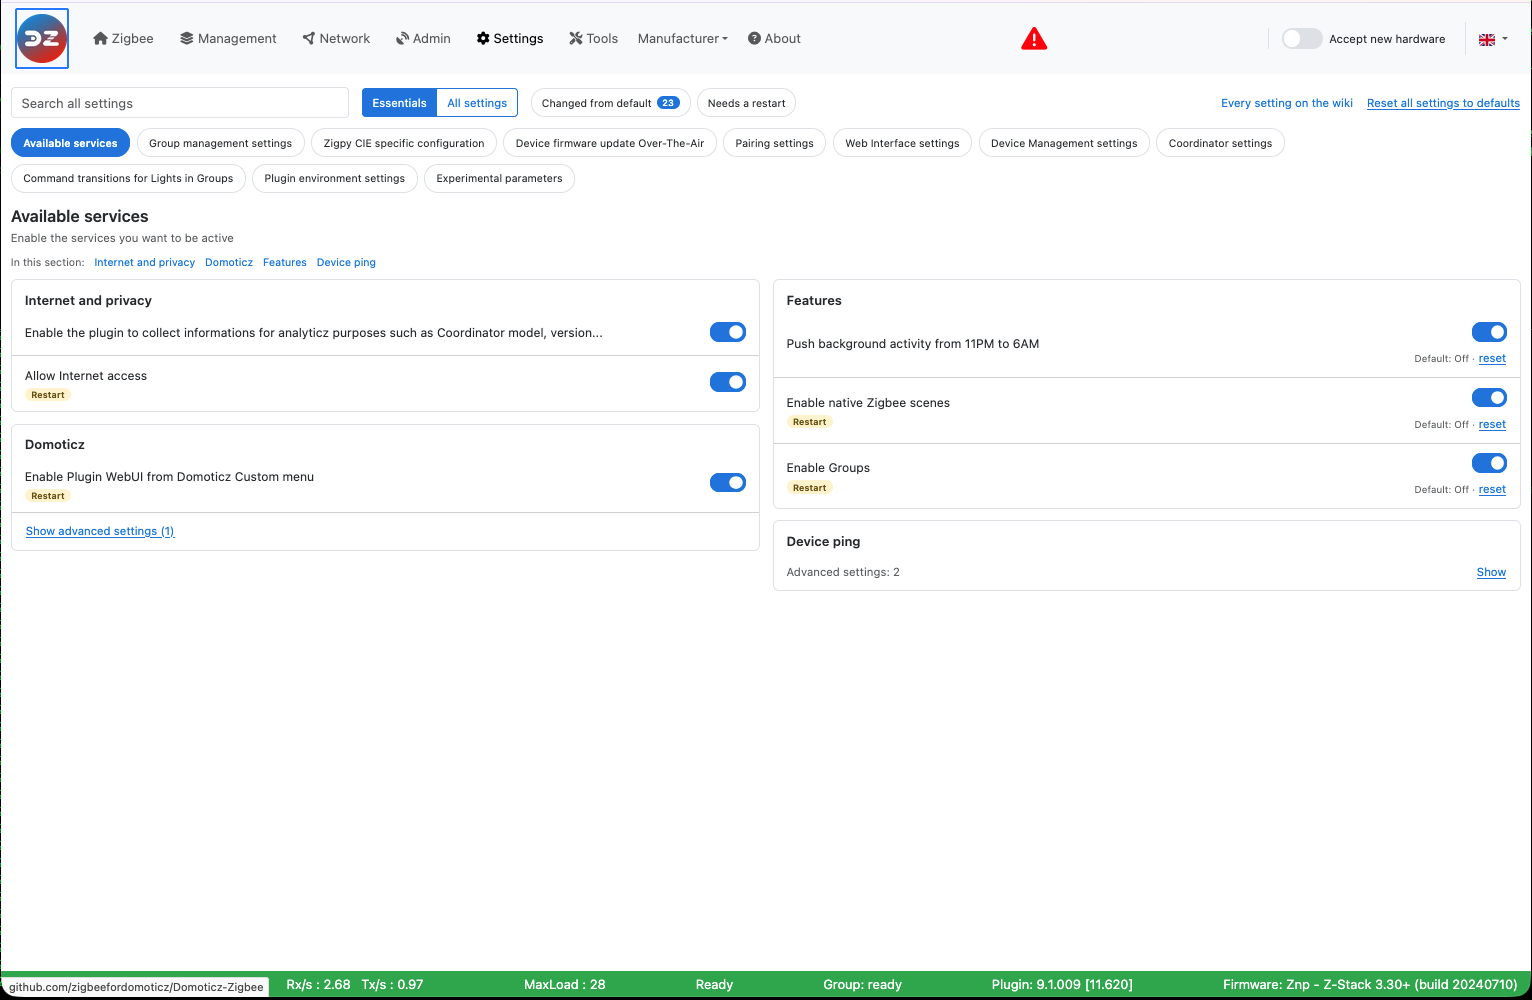
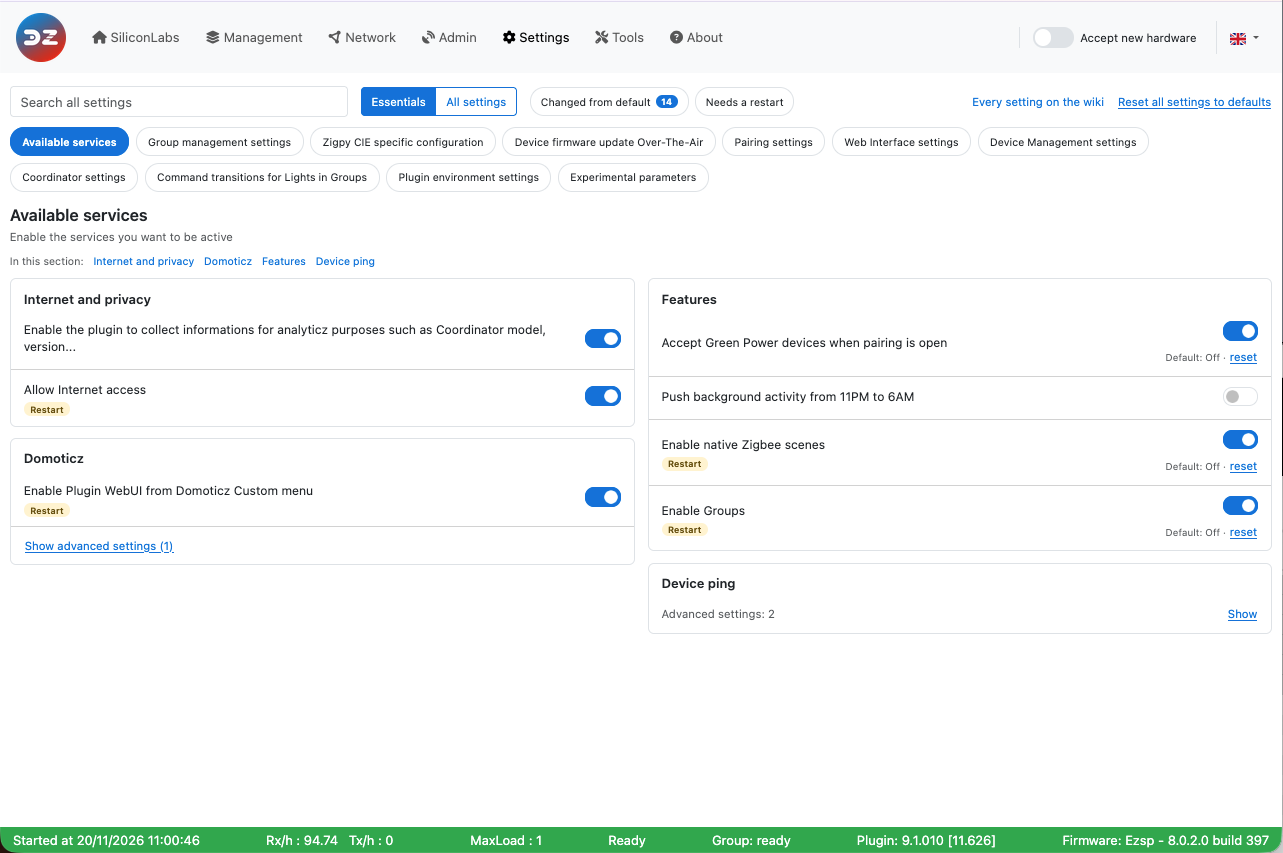
Settings: tables and screenshot of the released 9.1.010
Tables regenerated from origin/stable9 (9.1.010, 15d5d94a9) and
Domoticz-Zigbee-UI beta: GreenPowerEnable under Available services
(#2266), ControllerInRawMode no longer shown (#2265). The screenshot is
the 9.1.010 page on a Silicon Labs coordinator, with Green Power in the
Features card.

Claude-Session: https://claude.ai/code/session_017BKZpJtbN6oJB7RGDkBQzA

diff --git a/en-eng/WebUI_Settings.md b/en-eng/WebUI_Settings.md
@@ -44,6 +44,7 @@ Enable the services you want to be active
 | `MatomoOptIn` | Enable the plugin to collect informations for analyticz purposes such as Coordinator model, version... | on |  |  | See [Plugin statistics](WebUI_Statistics.md) for what is sent. |
 | `enablegroupmanagement` | Enable Groups | off |  | plugin restart | See [Group Management](HowTo_Group-management.md). |
 | `enableNativeScenes` | Enable native Zigbee scenes | off |  | plugin restart | Needs Group Management and a zigpy coordinator. |
+| `GreenPowerEnable` | Accept Green Power devices when pairing is open | off |  |  | Not offered on Texas Instruments (Z-Stack) coordinators, which cannot receive Green Power frames directly. |
 | `internetAccess` | Allow Internet access | on |  | plugin restart | Used to check for plugin and firmware updates, to update the certified devices database and for OTA firmware repositories. It doesn't control the [statistics](WebUI_Statistics.md). |
 | `DomoticzCustomMenu` | Enable Plugin WebUI from Domoticz Custom menu | on |  | plugin restart | See [Plugin integration](Plugin_Integration.md). |
 | `NightShift` | Push background activity from 11PM to 6AM | off |  |  |  |
@@ -112,7 +113,6 @@ Specific to some CIE as ConBeeII and RasBeeII it might required to enable some C
 | `EzspAllowUnsecuredRejoins` | Allow unsecured rejoins (EZSP) | off |  | plugin restart | Shown with Silicon Labs (EZSP) coordinators only. |
 | `BellowsNoMoreEndDeviceChildren` | Disable direct pairing on Coordinator | off |  | plugin restart | Shown with Silicon Labs (EZSP) coordinators only. End devices then pair through a router. |
 | `zigpySourceRouting` | Enable Zigbee Source routing (plugin) | off |  | plugin restart |  |
-| `GreenPowerEnable` | Accept Green Power devices when pairing is open | off |  |  | Not offered on Texas Instruments (Z-Stack) coordinators, which cannot receive Green Power frames directly. |
 
 ## Device firmware update Over-The-Air
 
@@ -269,7 +269,6 @@ Use it only if you have been asked to
 
 | Setting | Shown in the WebUI as | Default | Unit / values | Restart | Notes |
 | :------ | :-------------------- | :------ | :------------ | :------ | :---- |
-| `ControllerInRawMode` | Use the coordinator in raw mode | off |  |  |  |
 | `enableZigpyPersistentInMemory` | Keep the zigpy database in memory instead of a file | on |  | plugin restart |  |
 | `EventLoopInstrumentation` | Instrument the zigpy event loop | on |  | plugin restart |  |
 | `DomoticzDB_Stats` | Collect statistics on Domoticz database accesses | off |  |  |  |
